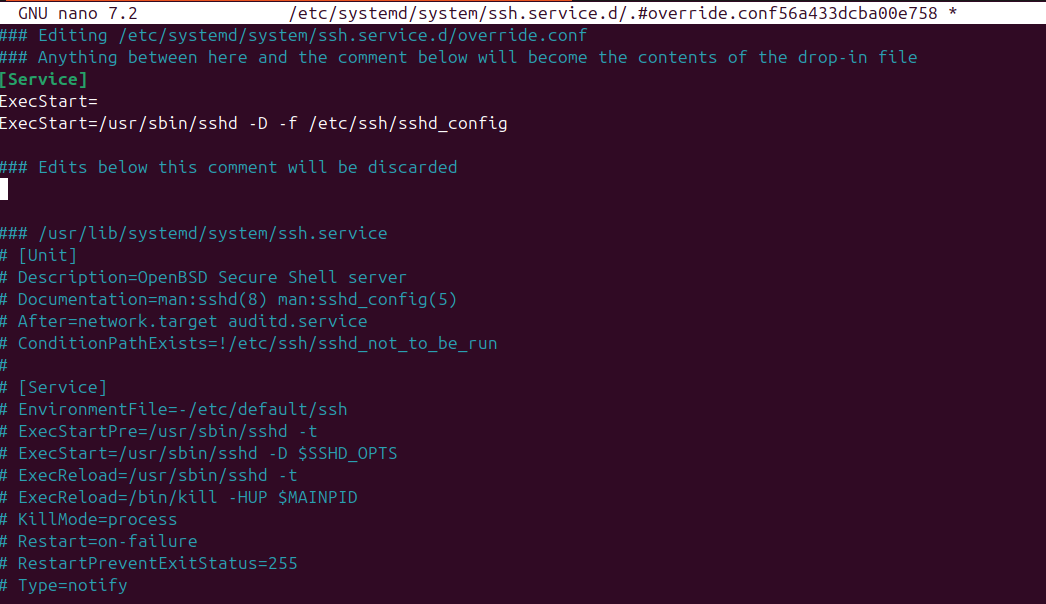
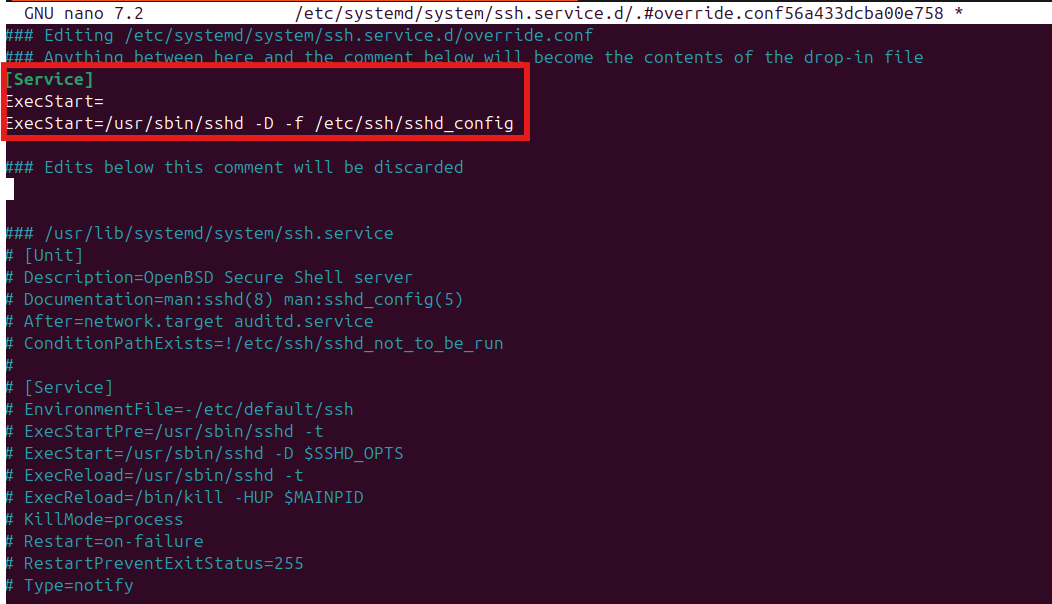
Add more screenshots, upload linux-ssh-hardening.md file

Changed region(s): [[0.0, 0.0, 0.9178, 1.0]]

diff --git a/linux/linux-ssh-hardening.md b/linux/linux-ssh-hardening.md
@@ -1,0 +1,333 @@
+# 🔒 SSH Hardening on Ubuntu Server
+
+This document outlines the process and purpose of hardening SSH access on my Ubuntu Server as part of a hands-on learning lab.
+
+---
+
+## 🛡 Why SSH Hardening?
+
+Hardening SSH is a critical step in securing remote server access. For this project, my goal was to practice strengthening system security and to simulate the responsibilities of a system administrator protecting digital infrastructure from unauthorized access.
+
+By modifying the SSH configuration and applying firewall rules, I aimed to:
+
+- Reduce potential attack vectors  
+- Practice real-world system administration skills  
+- Deepen my understanding of how SSH and system services interact
+
+---
+
+## 🔧 Hardening Process
+
+### 1. Back Up the SSH Config File (Ubuntu Server)
+
+All configuration changes in this section are performed on the **Ubuntu Server**, since this is the system being secured through SSH hardening.
+
+Before making any changes to the config file, I made sure to create a backup. While preparing for this, I noticed there are two different SSH configuration files:
+
+- `ssh_config`
+- `sshd_config`
+
+Out of curiosity, I looked up the difference between them to understand which one I should be editing.
+
+**Why `sshd_config` and not `ssh_config`?**
+
+- `sshd_config` controls the behavior of the **SSH server daemon (`sshd`)**, including listening ports, authentication rules, and session restrictions.
+- `ssh_config` configures **SSH client behavior** — for example, how your system initiates SSH connections to other machines.
+
+By learning the difference between these two files, I gained a better understanding of where to apply configuration changes. Since I'm securing the **Ubuntu Server**, it makes sense to work with the `sshd_config` file.
+
+I then backed up the original SSH daemon configuration file with:
+```bash
+sudo cp /etc/ssh/sshd_config /etc/ssh/sshd_config.backup
+```
+
+
+---
+
+### 2. Modify SSH Config Settings
+
+I opened the SSH configuration file using vim:
+
+```bash
+sudo vim /etc/ssh/sshd_config
+```
+
+Changes made:
+
+**Change SSH Port:**  
+  ```diff
+  - #Port 22
+  + Port 2222
+
+  ```
+When most people think of SSH, port 22 is the default that comes to mind. From an attacker's point of view, it's typically the first port scanned for vulnerabilities.
+Switching to a non-standard port like 2222 helps reduce unwanted traffic and brute-force attempts from automated bots. While not a substitute for real security, it's a simple and effective first layer of deterrence.
+
+I chose 2222 specifically because:
+- It’s easy to remember.
+- It's high enough to avoid conflicts with standard service ports.
+- It's commonly used in labs and non-production setups as an SSH alternative.
+
+**Disable Password Authentication And Enforce Key-Based Login:**  
+  ```diff
+  - #PasswordAuthentication yes
+  + PasswordAuthentication no
+  ```
+
+Disabling password authentication helps prevent brute-force attacks by bots attempting to guess user credentials.
+Using SSH keys is far more secure, as the private key must match the public key on the server.
+Setting `PasswordAuthentication no` ensures that only users with valid SSH keys can log in.
+
+**Disable Root Login:**
+  ```diff
+  - #PermitRootLogin yes
+  + PermitRootLogin no
+  ```
+
+Disabling root login blocks direct access to the server as the root user.
+Allowing root access would give attackers superuser privileges if compromised, which is a serious security risk.
+It also prevents accidental misconfigurations by users (including myself) when working in a lab environment with elevated privileges.
+
+**Permit Empty Passwords**
+  ```diff
+  - #PermitEmptyPasswords no
+  + PermitEmptyPasswords no
+  ```
+
+Setting this ensures that no user account with an empty password can log in over SSH.
+Even if such an account is mistakenly created, this setting ensures it's not accessible remotely.
+
+**Enable Banner**
+  ```diff
+  - #Banner none
+  + Banner /etc/ssh/custom_ssh_banner.txt
+  ```
+
+Although it doesn't enhance security directly, enabling a login banner is good practice in professional settings.
+A custom banner provides a warning or legal disclaimer before login, informing users (or intruders) that the system is monitored or restricted.
+
+I created a file called `custom_ssh_banner.txt` containing a short compliance message similar to what you might see in enterprise environments.
+
+![Custom Banner File](./screenshots/linux/06_ssh_custom_banner.png)
+
+
+---
+
+### 3. Update UFW Firewall Rules
+
+After modifying the SSH configuration, I updated the firewall rules to reflect the new port:
+
+```bash
+sudo ufw allow 2222/tcp
+sudo ufw delete allow 22/tcp
+```
+
+This allows incoming connections on port 2222 while removing access on port 22, which is commonly targeted in brute-force scans.
+With the firewall adjusted, I restarted the SSH service to apply all changes:
+
+```bash
+sudo systemctl restart ssh
+```
+
+---
+
+## ❗ Trouble Encountered: Connection Refused on Port 2222
+
+After restarting the SSH service, I attempted to connect from my Ubuntu Desktop with another terminal window using:
+
+```bash
+ssh -p 2222 kailin@192.168.xxx.xxx
+```
+
+However, I encountered a critical issue: **"Connection refused."**
+
+![Connection Refused](./screenshots/linux/07_ssh_connection_refused.png)
+
+Even though the SSH configuration had been updated and I had restarted the SSH service with: `sudo systemctl restart ssh`, the server was still **not listening on port 2222**. 
+To confirm this, I ran:
+
+```bash
+ss -tuln | grep 2222
+```
+
+![Port Not Used](./screenshots/linux/07_tuln_grep_2222.png)
+
+The command returned no output, indicating that **port 2222 was not in use**, despite the changes made in the config file.
+
+---
+
+## 🛠 Troubleshooting and Fix: SSH Server Not Listening on Port 2222
+
+After modifying the `sshd_config` file and restarting the SSH service, the server was still not listening on port 2222. Below is the step-by-step breakdown of how I diagnosed and resolved the issue.
+
+### 1. Check the SSH Configuration File for Port Declaration
+
+I used `grep` to confirm whether the correct port was set in the SSH daemon configuration file.
+
+```bash
+grep -in "Port" /etc/ssh/sshd_config
+```
+
+This returned:
+![Grep Port](./screenshots/linux/07_grep_port.png)
+
+```
+14:Port 2222
+```
+
+Which confirmed that port 2222 was properly defined and uncommented in the file.
+
+---
+
+### 2. Check UFW Firewall Status
+
+Next, I checked the firwall status by using `sudo ufw status` to see if there are any issues.
+
+![ufw status](./screenshots/linux/07_ssh_ufw_status.png)
+
+Output showed that port 2222 was allowed and port 22 had been removed. This confirmed that UFW was not blocking my custom port.
+
+---
+
+### 3. Use `sshd -T` and `sshd -t` for Validation
+
+To double-check what the SSH daemon thinks it's using, I ran:
+
+```bash
+sudo sshd -T | grep port
+```
+
+This should display:
+```
+port 2222
+```
+
+I also tested for syntax errors with:
+
+```bash
+sudo sshd -t
+```
+
+It returned no errors, confirming that the configuration syntax was valid.
+
+![sshd T](./screenshots/linux/07_sshd_T.png)
+
+
+---
+
+### 4. Check File Permissions
+
+I confirmed the permissions of `sshd_config`:
+
+![sshd Permission](./screenshots/linux/07_sshd_config_permission.png)
+
+The permissions were correct and not preventing the SSH service from reading the config.
+
+---
+
+### 5. Confirm Listening Ports
+
+Once again, I checked whether the system was actually listening on port 2222:
+
+![Port Not Used](./screenshots/linux/07_tuln_grep_2222.png)
+
+Unfortunately, this returned nothing, confirming that SSH was **still not listening** on the custom port.
+
+---
+
+### 6. Inspect Journal Logs for SSH Restart
+
+After doing some research to find the root cause of the problem, I decided to inspect the logs for any issues that might occur during SSH restart by running:
+
+```bash
+sudo systemctl restart ssh | journalctl -xe | grep sshd
+```
+
+#### What these commands do:
+- `systemctl restart ssh`: restarts the SSH daemon
+- `journalctl -xe`: shows the system journal logs in detail (with recent errors and warnings)
+- `grep sshd`: filters output to only show entries related to the SSH daemon
+
+![Listening Port 22](./screenshots/linux/07_listening_port_22.png)
+
+The logs revealed that SSH was **still binding to port 22** — despite all configuration pointing to 2222.
+
+---
+
+### 7. Investigate systemd Override
+
+At this point, I suspected the issue was with the way the SSH service was being launched. I checked the override configuration using:
+
+```bash
+systemctl cat ssh
+```
+
+![systemctl cat ssh](./screenshots/linux/07_cat_ssh.png)
+
+The result showed that `ExecStart` was defined as `ExecStart=/usr/sbin/sshd -D $SSHD_OPTS`
+This means the systemd was using the $SSHD_OPTS as the variable to provide additional configuration options, such as pointing to the correct SSH config file. However, $SSHD_OPTS was likely undefined or empty, meaning the SSH daemon started without explicitly using the updated configuration I had set in /etc/ssh/sshd_config.
+As a result, the SSH service **defaulted to its built-in behavior**, which listens on port 22. This explained why my changes weren't taking effect, even though the config file itself was correctly configured.
+
+---
+
+### 8. Apply systemd Override Fix
+
+I used the following command to open an editable override file for the SSH service:
+
+```bash
+sudo systemctl edit ssh
+```
+
+There, I updated the `ExecStart` line to explicitly specify the correct configuration file:
+
+```bash
+[Service]
+ExecStart=
+ExecStart=/usr/sbin/sshd -D -f /etc/ssh/sshd_config
+```
+
+![SSH Override](./screenshots/linux/07_ssh_Override.png)
+
+The first `ExecStart=` line is intentionally left empty to clear any previous `ExecStart` directives. This prevents systemd from throwing a conflict error due to multiple `ExecStart` entries, which is only allowed for `Type=oneshot` services.
+Then, instead of using `$SSHD_OPTS`, I directly specified the config file using `-f /etc/ssh/sshd_config` to ensure that the SSH daemon explicitly loads the correct configuration file.
+
+After saving the override file, I reloaded systemd and restarted the SSH service:
+
+```bash
+sudo systemctl daemon-reexec
+sudo systemctl daemon-reload
+sudo systemctl restart ssh
+```
+
+---
+
+### 9. Final Confirmation
+
+Once again, I verified that SSH was finally listening on port 2222:
+
+```bash
+sudo ss -tuln | grep 2222
+```
+
+![Issue Solved](./screenshots/linux/07_issue_solved.png)
+
+
+✅ This time, the port was **successfully being used**. I opened a new terminal in my Ubuntu Desktop and was able to connect using the custom SSH port.
+
+![Log In Success](./screenshots/linux/08_LoggedIn.png)
+
+---
+
+## ✅ Conclusion: What I Learned
+
+Through this hardening process, I learned:
+
+- How to properly modify SSH server configurations
+- The importance of verifying systemd overrides when services ignore expected settings
+- How to use tools like `ss`, `systemctl`, and `sshd -T` for low-level troubleshooting
+- Why key-based authentication is essential for secure remote access
+- How to update firewall rules to match SSH service changes
+
+---
+
+SSH is now running securely on port 2222 with password-based login disabled and key-based login enforced — exactly how a production-level SSH service should be configured.
